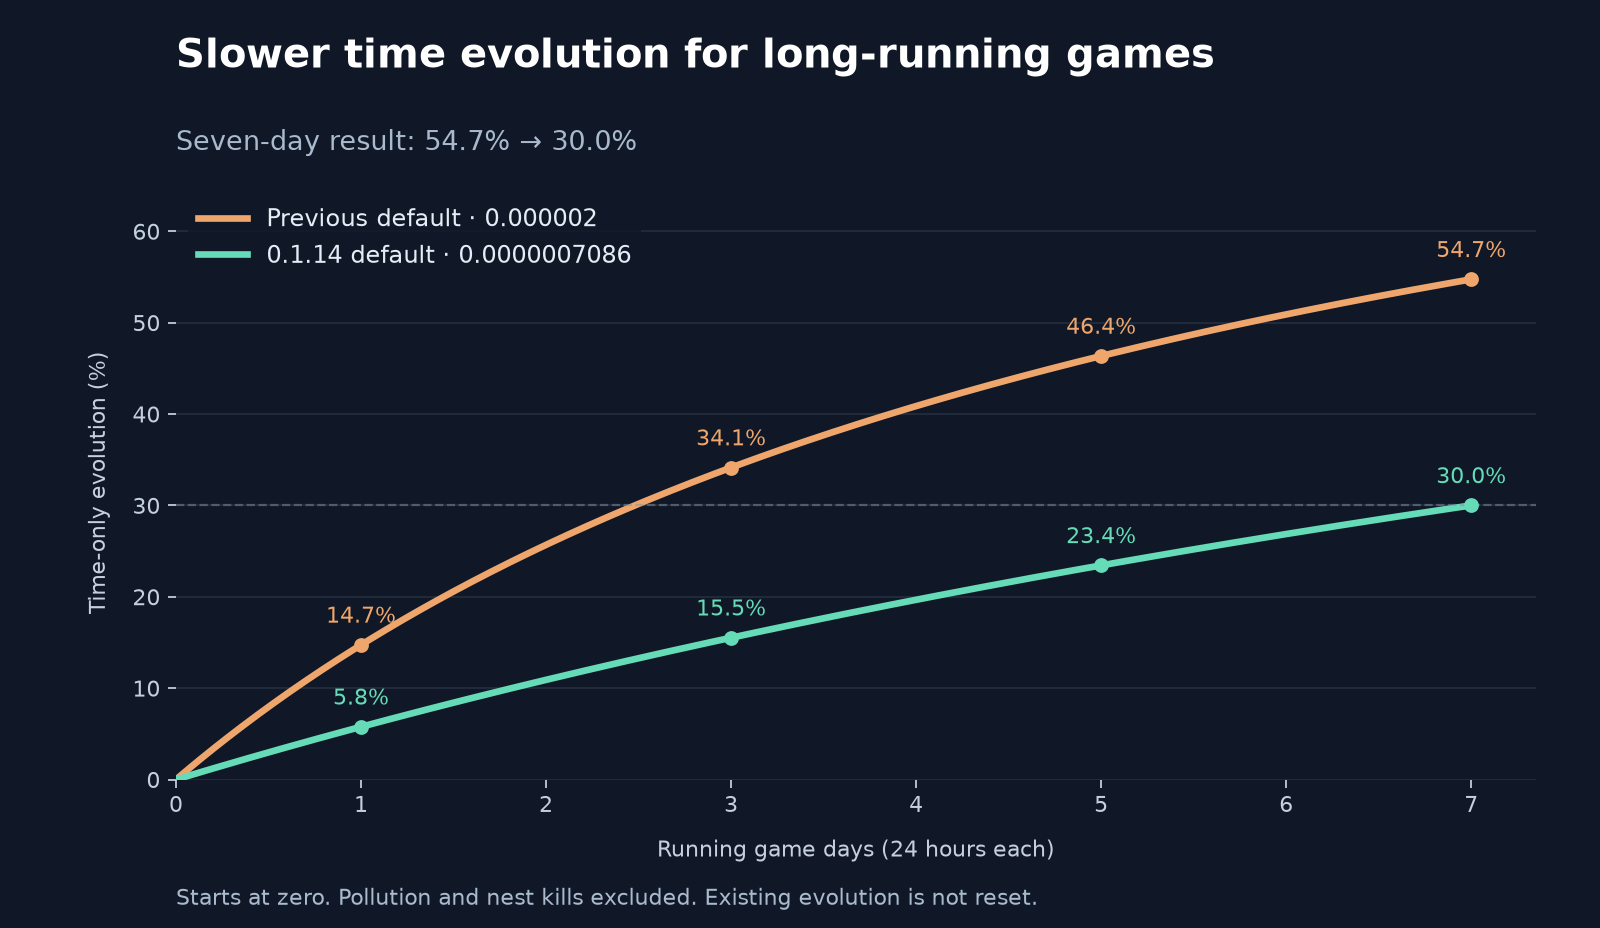
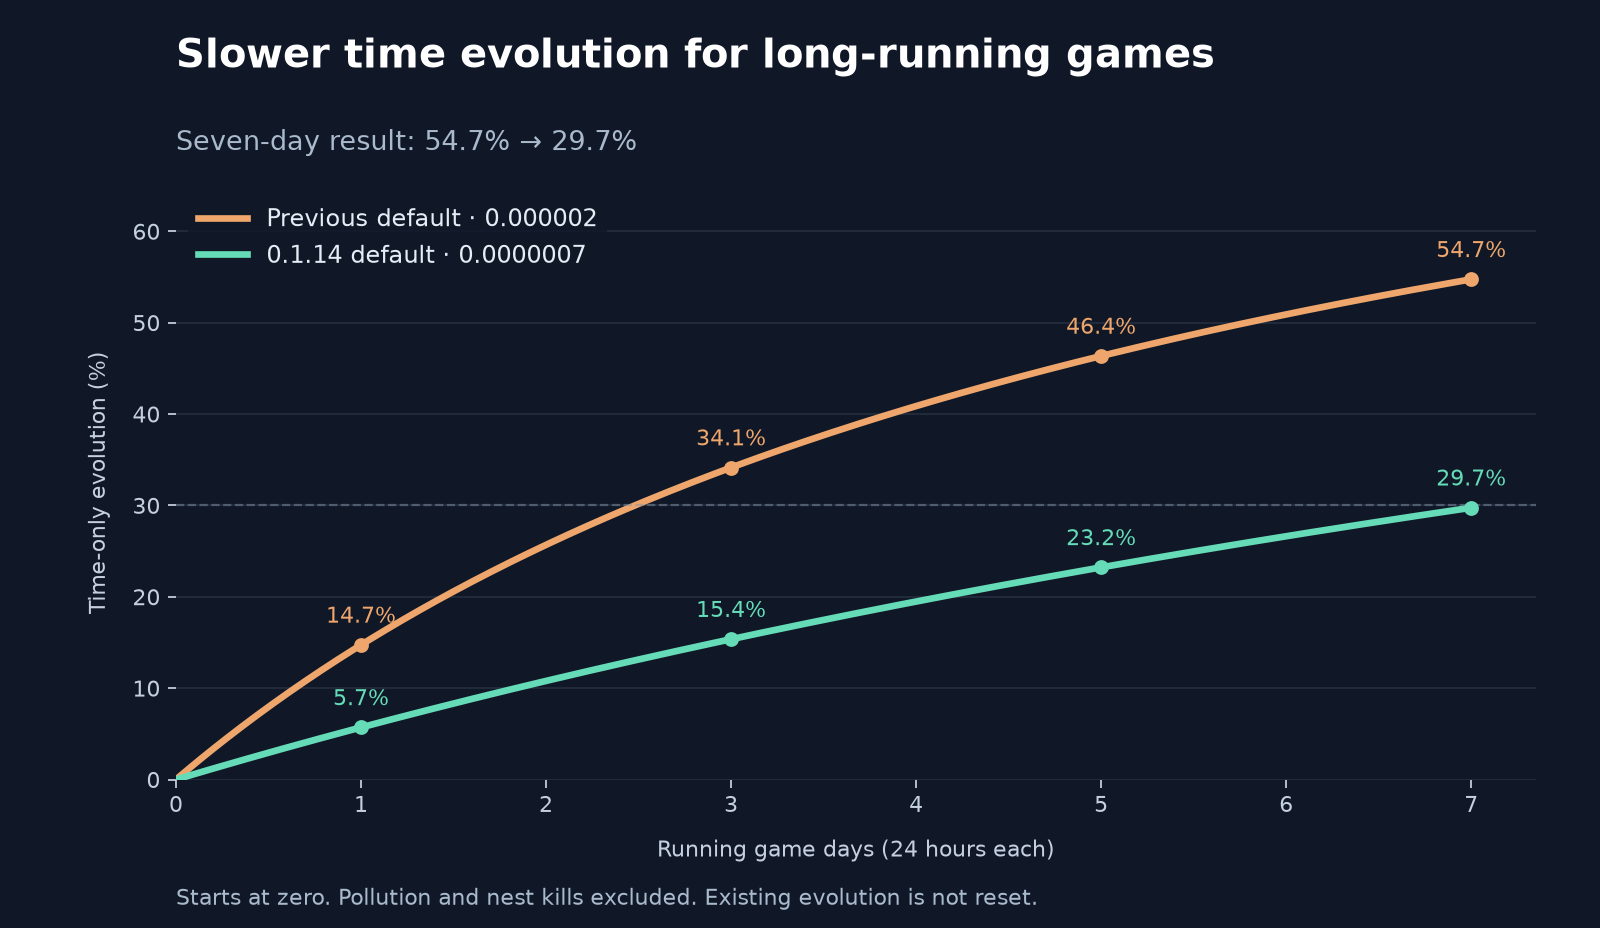
Round time evolution default to 0.0000007

diff --git a/docs/evolution-defaults.md b/docs/evolution-defaults.md
@@ -1,7 +1,7 @@
 # Time evolution defaults
 
 Version 0.1.14 changes the default time evolution factor from `0.000002` to
-`0.0000007086`. Pollution stays at `0.0000006`, and nest destruction stays at `0.003`.
+`0.0000007`. Pollution stays at `0.0000006`, and nest destruction stays at `0.003`.
 
 ![Previous and new time evolution defaults over seven running game days](images/time-evolution-defaults.png)
 
@@ -10,21 +10,22 @@ means 24 hours of running simulation; paused server time does not count.
 
 | Running days | Previous default | 0.1.14 default |
 | --- | ---: | ---: |
-| 1 | 14.7% | 5.8% |
-| 2 | 25.7% | 10.9% |
-| 3 | 34.1% | 15.5% |
-| 4 | 40.9% | 19.7% |
-| 5 | 46.4% | 23.4% |
-| 6 | 50.9% | 26.9% |
-| 7 | 54.7% | 30.0% |
+| 1 | 14.7% | 5.7% |
+| 2 | 25.7% | 10.8% |
+| 3 | 34.1% | 15.4% |
+| 4 | 40.9% | 19.5% |
+| 5 | 46.4% | 23.2% |
+| 6 | 50.9% | 26.6% |
+| 7 | 54.7% | 29.7% |
 
-The rate is approximately 64.6% lower, so a given time-only evolution level takes
-about 2.82 times as long to reach. This does not mean total evolution will be 64.6%
+The rate is approximately 65% lower, so a given time-only evolution level takes
+about 2.86 times as long to reach. This does not mean total evolution will be 65%
 lower: pollution and nest kills still contribute, and evolution slows as it rises.
 
 For time-only evolution from zero, the approximate curve is
 `evolution = (rate * seconds) / (1 + rate * seconds)`. Solving for 0.30 at seven
-days gives `rate = 0.30 / (1 - 0.30) / (7 * 86400)`, rounded to `0.0000007086`.
+days gives `rate = 0.30 / (1 - 0.30) / (7 * 86400)`. We round this to
+`0.0000007` for a simpler setting, giving approximately 29.7% after seven days.
 This models Factorio's diminishing growth; it is not a fixed daily percentage
 increase. See the [Factorio evolution mechanics](https://wiki.factorio.com/Enemies#Evolution).
 

diff --git a/README.md b/README.md
@@ -63,13 +63,13 @@ open limits.
 Most servers can start with the defaults. Competitive MTS servers usually want
 to keep synchronized cell content and synchronized invasions enabled.
 
-Starting in 0.1.14, the default time evolution factor is `0.0000007086`. From zero,
+Starting in 0.1.14, the default time evolution factor is `0.0000007`. From zero,
 time alone reaches about 30% evolution after seven running game days, compared
 with 54.7% at the previous default of `0.000002`. Pollution and nest-kill evolution
 remain unchanged and add to the total; 30% is not a cap.
 
 Existing saves keep their stored settings. To use the new rate in a current game,
-an admin can set **Time evolution factor** to `0.0000007086` under
+an admin can set **Time evolution factor** to `0.0000007` under
 **Settings > Mod settings > Map**. It applies immediately without resetting
 accumulated evolution. See the [default evolution comparison](docs/evolution-defaults.md).
 
